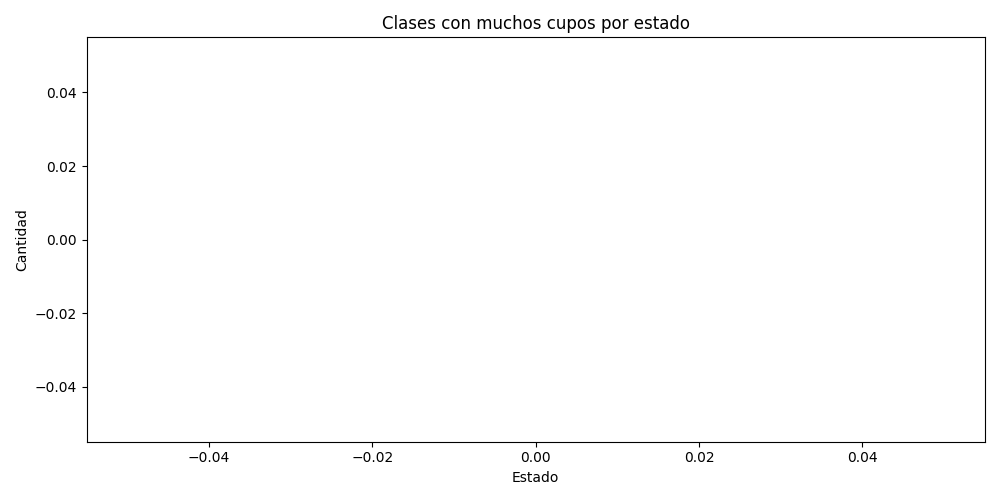
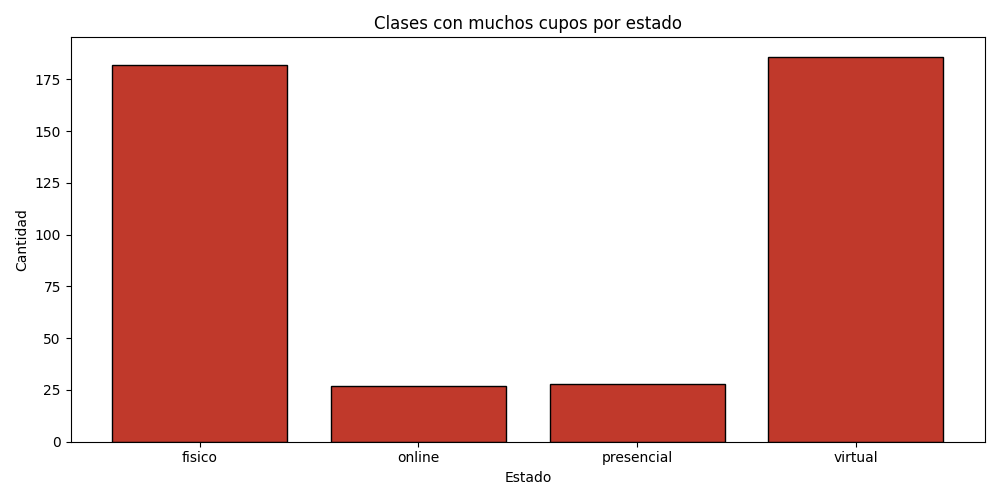
fix: se corrigen cosas tranformacionClases/socios, y en main.py

diff --git a/main.py b/main.py
@@ -2,17 +2,15 @@ import pandas as pd
 
 
 # ==========================================
-# IMPORTAR CONSUMOS
+# IMPORTAR SIMULACIONES
 # ==========================================
-
-from notebook.consumoDatosSocios import consumir_socios
-from notebook.consumoDatosClases import consumir_clases
+from utils.simulaciónDatosSocios import generar_socios
+from utils.simulacionClases import generar_clases
 
 
 # ==========================================
 # IMPORTAR LIMPIEZAS
 # ==========================================
-
 from notebook.limpiezaDatosSocios import limpiar_socios
 from notebook.limpiezaDatosClases import limpiar_clases
 
@@ -20,7 +18,6 @@ from notebook.limpiezaDatosClases import limpiar_clases
 # ==========================================
 # IMPORTAR TRANSFORMACIONES
 # ==========================================
-
 from notebook.transformacionDatosSocios import transformar_datos_socios
 from notebook.transformacionDatosClases import transformar_datos
 
@@ -28,21 +25,24 @@ from notebook.transformacionDatosClases import transformar_datos
 # ==========================================
 # IMPORTAR DESCRIPCIONES
 # ==========================================
-
 from notebook.descripcionDatosSocios import describir_datos as describir_socios
 from notebook.descripcionDatosClases import describir_datos as describir_clases
 
 
 # ==========================================
-# IMPORTAR GRAFICACION
+# IMPORTAR GRAFICACION SOCIOS
 # ==========================================
-
 from notebook.graficacionSocios import (
     graficar_socios_por_nombre,
     graficar_socios_por_estado,
     graficar_socios_thomas,
     graficar_membresias_altas
 )
+
+
+# ==========================================
+# IMPORTAR GRAFICACION CLASES
+# ==========================================
 from notebook.graficacionClases import (
     graficar_clases_por_nivel,
     graficar_clases_virtual_vs_fisico,
@@ -51,33 +51,29 @@ from notebook.graficacionClases import (
 
 
 # ==========================================
-# CONSUMIR DATOS DESDE LA API
+# GENERAR DATOS
 # ==========================================
-
-datos_socios = consumir_socios()
-datos_clases = consumir_clases()
+datos_socios = generar_socios(1000)
+datos_clases = generar_clases(1000)
 
 
 # ==========================================
-# CONVERTIR A DATAFRAME
+# DATAFRAMES
 # ==========================================
-
 dataFrameSocios = pd.DataFrame(datos_socios)
 dataFrameClases = pd.DataFrame(datos_clases)
 
 
 # ==========================================
-# LIMPIAR DATOS
+# LIMPIEZA
 # ==========================================
-
 dataFrameSociosLimpio = limpiar_socios(dataFrameSocios)
 dataFrameClasesLimpio = limpiar_clases(dataFrameClases)
 
 
 # ==========================================
-# DESCRIBIR DATOS
+# DESCRIPCIÓN
 # ==========================================
-
 print("\n========== SOCIOS ==========\n")
 describir_socios(dataFrameSociosLimpio)
 
@@ -86,17 +82,15 @@ describir_clases(dataFrameClasesLimpio)
 
 
 # ==========================================
-# TRANSFORMAR DATOS
+# TRANSFORMACIÓN
 # ==========================================
-
 resultadoSocios = transformar_datos_socios(dataFrameSociosLimpio)
 resultadoClases = transformar_datos(dataFrameClasesLimpio)
 
 
 # ==========================================
-# MOSTRAR RESULTADOS
+# RESULTADOS
 # ==========================================
-
 print("\n========== RESULTADOS SOCIOS ==========\n")
 print(resultadoSocios["usuariosActivos"])
 print(resultadoSocios["membresiasAltas"])
@@ -111,7 +105,6 @@ print(resultadoClases["clasesNivel1"])
 # ==========================================
 # GRAFICAR SOCIOS
 # ==========================================
-
 print("\n========== GRAFICANDO SOCIOS ==========\n")
 
 graficar_socios_por_nombre(resultadoSocios["usuariosActivos"])
@@ -123,9 +116,8 @@ graficar_membresias_altas(resultadoSocios["membresiasAltas"])
 # ==========================================
 # GRAFICAR CLASES
 # ==========================================
-
 print("\n========== GRAFICANDO CLASES ==========\n")
 
-graficar_clases_por_nivel(resultadoClases["clasesVirtuales"])
+graficar_clases_por_nivel(resultadoClases["clasesNivel1"])
 graficar_clases_virtual_vs_fisico(resultadoClases["clasesVirtuales"])
 graficar_clases_con_muchos_cupos(resultadoClases["clasesConMuchosCupos"])

diff --git a/notebook/transformacionDatosSocios.py b/notebook/transformacionDatosSocios.py
@@ -5,55 +5,50 @@ def transformar_datos_socios(data_frame_limpio_socios):
     df = data_frame_limpio_socios.copy()
 
     # =========================
-    # LIMPIEZA CRÍTICA
+    # NORMALIZAR COLUMNA NOMBRE
     # =========================
+    if "Nombre_usuario" in df.columns:
+        df["nombre"] = df["Nombre_usuario"].astype(str).str.lower().str.strip()
+    elif "nombre" in df.columns:
+        df["nombre"] = df["nombre"].astype(str).str.lower().str.strip()
 
-    # Convertir estado a string seguro
+    # =========================
+    # NORMALIZAR ESTADO
+    # =========================
     if "estado" in df.columns:
         df["estado"] = df["estado"].astype(str).str.lower().str.strip()
 
-    # Convertir mmembresia a número (EXTRAE valor si es dict)
-    if "mmembresia" in df.columns:
-
-        def extraer_valor(x):
-            if isinstance(x, dict):
-                return x.get("valor", 0)
-            return x
-
-        df["mmembresia"] = df["mmembresia"].apply(extraer_valor)
-        df["mmembresia"] = pd.to_numeric(df["mmembresia"], errors="coerce")
-
     # =========================
-    # FILTRO 1: ACTIVOS
+    # FILTRO 1: ACTIVOS POR NOMBRE
     # =========================
-    filtro1 = df[df["estado"] == "activo"]
+    filtro1 = df[df["estado"] == "usuario activo"]
+    if filtro1.empty:
+        filtro1 = df[df["estado"] == "activo"]
 
     agrupacion1 = (
         filtro1.groupby("nombre")["id_socio"]
         .count()
         .reset_index(name="cuenta")
     )
+    agrupacion1.rename(columns={"nombre": "Nombre_usuario"}, inplace=True)
 
     # =========================
     # FILTRO 2: MEMBRESIAS ALTAS
     # =========================
-    if "mmembresia" in df.columns:
-
-        filtro2 = df[df["mmembresia"] >= 300]
-
+    if "id_membresia" in df.columns:
+        filtro2 = df[pd.to_numeric(df["id_membresia"], errors="coerce") >= 300]
         agrupacion2 = (
             filtro2.groupby("estado")["id_socio"]
             .count()
             .reset_index(name="cuenta")
         )
     else:
-        agrupacion2 = pd.DataFrame(columns=["estado", "cuenta"])
+        agrupacion2 = df.groupby("estado")["id_socio"].count().reset_index(name="cuenta")
 
     # =========================
     # FILTRO 3: THOMAS
     # =========================
-    filtro3 = df[df["nombre"] == "thomas rodriguez"]
-
+    filtro3 = df[df["nombre"].str.contains("thomas", na=False)]
     agrupacion3 = (
         filtro3.groupby("estado")["id_socio"]
         .count()
@@ -64,9 +59,7 @@ def transformar_datos_socios(data_frame_limpio_socios):
     # FILTRO 4: FECHAS
     # =========================
     if "fecha_inscripcion" in df.columns:
-
         filtro4 = df[df["fecha_inscripcion"].notnull()]
-
         agrupacion4 = (
             filtro4.groupby(filtro4["fecha_inscripcion"].dt.date)["id_socio"]
             .count()
@@ -78,7 +71,9 @@ def transformar_datos_socios(data_frame_limpio_socios):
     # =========================
     # FILTRO 5: BLOQUEADOS
     # =========================
-    filtro5 = df[df["estado"] == "bloqueado"]
+    filtro5 = df[df["estado"] == "usuario bloqueado"]
+    if filtro5.empty:
+        filtro5 = df[df["estado"] == "bloqueado"]
 
     agrupacion5 = (
         filtro5.groupby("nombre")["id_socio"]

diff --git a/notebook/limpiezaDatosSocios.py b/notebook/limpiezaDatosSocios.py
@@ -1,55 +1,41 @@
-import pandas as pd
+import pandas as pd 
 
 def limpiar_socios(data_frame_sucio_socios):
-
+    
     data_frame_limpio_socios = data_frame_sucio_socios.copy()
 
     # LIMPIEZA DE TEXTOS
-    data_frame_limpio_socios["nombre"] = (
-        data_frame_limpio_socios["nombre"]
-        .astype("string")
-        .str.strip()
-        .str.lower()
-    )
-
-    data_frame_limpio_socios["estado"] = (
-        data_frame_limpio_socios["estado"]
-        .astype("string")
-        .str.strip()
-        .str.lower()
-    )
+    data_frame_limpio_socios["Nombre_usuario"] = data_frame_limpio_socios["Nombre_usuario"].astype("string").str.strip().str.lower()
+    data_frame_limpio_socios["estado"] = data_frame_limpio_socios["estado"].astype("string").str.strip().str.lower()
 
     # Valores esperados
-    valores_esperados_estado = ["activo", "bloqueado"]
+    valores_esperados_nombres = ["thomas","jose","alberto","santiago","camilo"]
+    data_frame_limpio_socios["Nombre_usuario"] = data_frame_limpio_socios["Nombre_usuario"].where(
+        data_frame_limpio_socios["Nombre_usuario"].isin(valores_esperados_nombres),
+        pd.NA
+    )
 
+    valores_esperados_estado = ["usuario activo","usuario bloqueado"]
     data_frame_limpio_socios["estado"] = data_frame_limpio_socios["estado"].where(
         data_frame_limpio_socios["estado"].isin(valores_esperados_estado),
         pd.NA
     )
 
     # LIMPIEZA NUMÉRICA
-    data_frame_limpio_socios["id_socio"] = pd.to_numeric(
-        data_frame_limpio_socios["id_socio"], errors="coerce"
-    )
+    data_frame_limpio_socios["id_socio"] = pd.to_numeric(data_frame_limpio_socios["id_socio"], errors="coerce")
+    data_frame_limpio_socios["id_membresia"] = pd.to_numeric(data_frame_limpio_socios["id_membresia"], errors="coerce")
 
-    data_frame_limpio_socios = data_frame_limpio_socios[
-        data_frame_limpio_socios["id_socio"] > 0
-    ]
+    data_frame_limpio_socios = data_frame_limpio_socios[data_frame_limpio_socios["id_socio"] > 0]
+    data_frame_limpio_socios = data_frame_limpio_socios[data_frame_limpio_socios["id_membresia"] >= 200]
 
-    # LIMPIEZA FECHAS
-    data_frame_limpio_socios["fecha_inscripcion"] = pd.to_datetime(
-        data_frame_limpio_socios["fecha_inscripcion"], errors="coerce"
-    )
+    # LIMPIEZA DE FECHAS
+    data_frame_limpio_socios["fecha_inscripcion"] = pd.to_datetime(data_frame_limpio_socios["fecha_inscripcion"], errors="coerce")
 
-    data_frame_limpio_socios["fecha_inscripcion"] = data_frame_limpio_socios[
-        "fecha_inscripcion"
-    ].fillna(pd.to_datetime("2026-01-01"))
+    fecha_default = pd.to_datetime("2026-01-01")
+    data_frame_limpio_socios["fecha_inscripcion"] = data_frame_limpio_socios["fecha_inscripcion"].fillna(fecha_default)
 
     # ELIMINAR NULOS IMPORTANTES
-    columnas_obligatorias = ["id_socio", "nombre", "estado"]
-
-    data_frame_limpio_socios = data_frame_limpio_socios.dropna(
-        subset=columnas_obligatorias
-    )
+    columnas_obligatorias = ["id_socio","Nombre_usuario","estado","id_membresia"]
+    data_frame_limpio_socios = data_frame_limpio_socios.dropna(subset=columnas_obligatorias)
 
     return data_frame_limpio_socios

diff --git a/notebook/transformacionDatosClases.py b/notebook/transformacionDatosClases.py
@@ -5,10 +5,29 @@ def transformar_datos(data_frame_limpio_clases):
     df = data_frame_limpio_clases.copy()
 
     # =========================
+    # NORMALIZAR COLUMNAS
+    # =========================
+    if "niveles" in df.columns:
+        df["nivel"] = df["niveles"].astype(str).str.lower().str.strip()
+    elif "nivel" in df.columns:
+        df["nivel"] = df["nivel"].astype(str).str.lower().str.strip()
+
+    if "cupos" in df.columns:
+        df["cupos_maximos"] = pd.to_numeric(df["cupos"], errors="coerce")
+    elif "cupos_maximos" in df.columns:
+        df["cupos_maximos"] = pd.to_numeric(df["cupos_maximos"], errors="coerce")
+
+    if "id_entrenadores" in df.columns:
+        df["mentrenador"] = pd.to_numeric(df["id_entrenadores"], errors="coerce")
+    elif "mentrenador" in df.columns:
+        df["mentrenador"] = pd.to_numeric(df["mentrenador"], errors="coerce")
+
+    df["estado"] = df["estado"].astype(str).str.lower().str.strip()
+
+    # =========================
     # FILTRO 1: CLASES VIRTUALES
     # =========================
-    filtro1 = df.query("estado == 'virtual'")
-
+    filtro1 = df[df["estado"] == "virtual"]
     agrupacion1 = (
         filtro1.groupby("nivel")["id_clase"]
         .count()
@@ -18,8 +37,7 @@ def transformar_datos(data_frame_limpio_clases):
     # =========================
     # FILTRO 2: CUPOS ALTOS
     # =========================
-    filtro2 = df.query("cupos_maximos >= 25")
-
+    filtro2 = df[df["cupos_maximos"] >= 25]
     agrupacion2 = (
         filtro2.groupby("estado")["id_clase"]
         .count()
@@ -29,8 +47,7 @@ def transformar_datos(data_frame_limpio_clases):
     # =========================
     # FILTRO 3: NIVEL 1
     # =========================
-    filtro3 = df.query("nivel == 'nivel 1'")
-
+    filtro3 = df[df["nivel"] == "nivel 1"]
     agrupacion3 = (
         filtro3.groupby("estado")["id_clase"]
         .count()
@@ -40,8 +57,7 @@ def transformar_datos(data_frame_limpio_clases):
     # =========================
     # FILTRO 4: ENTRENADORES
     # =========================
-    filtro4 = df.query("mentrenador >= 300")
-
+    filtro4 = df[df["mentrenador"] >= 300]
     agrupacion4 = (
         filtro4.groupby("mentrenador")["id_clase"]
         .count()
@@ -52,22 +68,16 @@ def transformar_datos(data_frame_limpio_clases):
     # FILTRO 5: FECHAS
     # =========================
     filtro5 = df[df["horario"].notnull()]
-
     agrupacion5 = (
         filtro5.groupby(filtro5["horario"].dt.date)["id_clase"]
         .count()
         .reset_index(name="cuenta")
     )
 
-    # =========================
-    # RESULTADO FINAL
-    # =========================
-    resultado = {
+    return {
         "clasesVirtuales": agrupacion1,
         "clasesConMuchosCupos": agrupacion2,
         "clasesNivel1": agrupacion3,
         "clasesPorEntrenador": agrupacion4,
         "clasesPorFecha": agrupacion5
     }
-
-    return resultado
